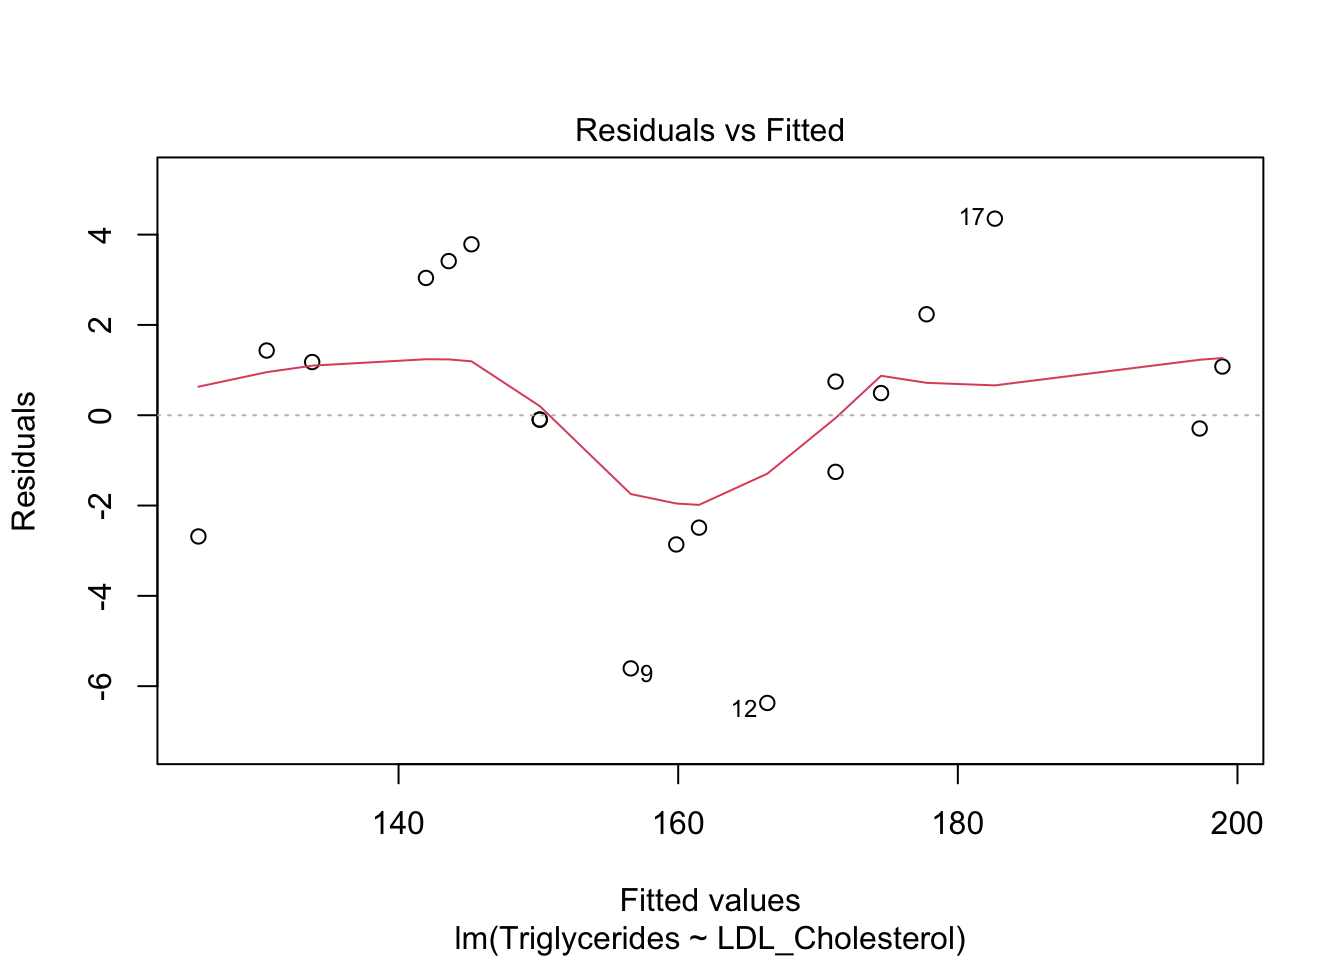
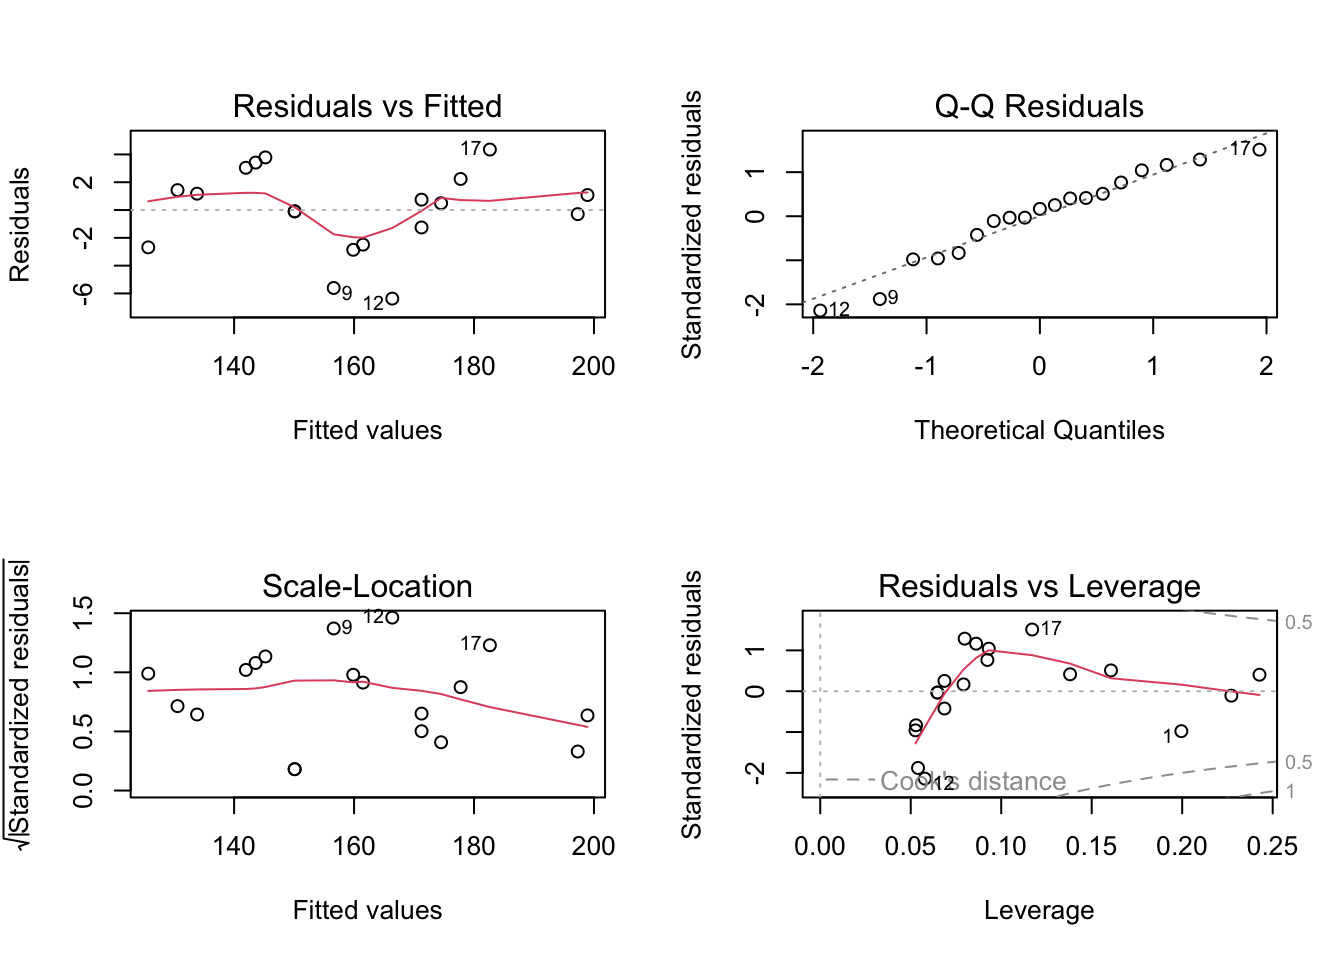
Add files via upload

diff --git a/Stats_Workshop3.html b/Stats_Workshop3.html
@@ -1343,12 +1343,12 @@ F-statistic: 849.7 on 1 and 17 DF,  p-value: 5.906e-16</code></pre>
 <dl class="code-annotation-container-hidden code-annotation-container-grid">
 <dt data-target-cell="annotated-cell-17" data-target-annotation="1">1</dt>
 <dd>
-<span data-code-cell="annotated-cell-17" data-code-lines="1" data-code-annotation="1">Send the regr_fit object to the rstandard() function which calculates the standardised residuals. Store the results as an object called st_resid</span>
+<span data-code-cell="annotated-cell-17" data-code-lines="1" data-code-annotation="1">Send the regr_fit object to the rstandard() function which calculates the standardised residuals. Store the results as an object called <code>st_resid</code></span>
 </dd>
 </dl>
 </div>
 </div>
-<p><br> Produce a histogram to view the standardised residuals visually and test with Shapiro Wilk test. <br>A histogram:<br></p>
+<p><br> Produce a histogram to view the standardised residuals visually:</p>
 <div class="cell">
 <div class="sourceCode cell-code" id="annotated-cell-18"><pre class="sourceCode r code-annotation-code code-with-copy code-annotated"><code class="sourceCode r"><span id="annotated-cell-18-1"><a href="#annotated-cell-18-1" aria-hidden="true" tabindex="-1"></a>st_resid <span class="sc">|&gt;</span></span>
 <button class="code-annotation-anchor" data-target-cell="annotated-cell-18" data-target-annotation="1">1</button><span id="annotated-cell-18-2" class="code-annotation-target"><a href="#annotated-cell-18-2" aria-hidden="true" tabindex="-1"></a>  <span class="fu">ggplot</span>(<span class="fu">aes</span>(<span class="at">x =</span> value)) <span class="sc">+</span></span>
@@ -1392,7 +1392,7 @@ Click to see the histogram
 </div>
 </div>
 </div>
-<p><br> Test the standardised residuals to see if they are normally distributed:</p>
+<p><br> Use the Shapiro Wilk test to see if the standardised residuals are normally distributed:</p>
 <div class="cell">
 <div class="sourceCode cell-code" id="cb14"><pre class="sourceCode r code-with-copy"><code class="sourceCode r"><span id="cb14-1"><a href="#cb14-1" aria-hidden="true" tabindex="-1"></a>st_resid <span class="sc">|&gt;</span></span>
 <span id="cb14-2"><a href="#cb14-2" aria-hidden="true" tabindex="-1"></a>  <span class="fu">shapiro_test</span>(value) </span></code><button title="Copy to Clipboard" class="code-copy-button"><i class="bi"></i></button></pre></div>
@@ -1433,18 +1433,30 @@ Click to see the output
 </div>
 </div>
 </div>
-<p><br><br> <code>b)</code> Diagnostic plots<br> The following will produce the diagnostic plots for the <code>regr_fit</code> regression model.</p>
+<p><br><br> <code>b)</code> Diagnostic plots<br> The following will produce 4 diagnostic plots for the <code>regr_fit</code> regression model.</p>
 <div class="cell">
-<div class="sourceCode cell-code" id="cb15"><pre class="sourceCode r code-with-copy"><code class="sourceCode r"><span id="cb15-1"><a href="#cb15-1" aria-hidden="true" tabindex="-1"></a><span class="fu">plot</span>(regr_fit)</span></code><button title="Copy to Clipboard" class="code-copy-button"><i class="bi"></i></button></pre></div>
+<div class="sourceCode cell-code" id="annotated-cell-20"><pre class="sourceCode r code-annotation-code code-with-copy code-annotated"><code class="sourceCode r"><button class="code-annotation-anchor" data-target-cell="annotated-cell-20" data-target-annotation="1">1</button><span id="annotated-cell-20-1" class="code-annotation-target"><a href="#annotated-cell-20-1" aria-hidden="true" tabindex="-1"></a><span class="fu">par</span>(<span class="at">mfrow =</span> <span class="fu">c</span>(<span class="dv">2</span>, <span class="dv">2</span>))</span>
+<button class="code-annotation-anchor" data-target-cell="annotated-cell-20" data-target-annotation="2">2</button><span id="annotated-cell-20-2" class="code-annotation-target"><a href="#annotated-cell-20-2" aria-hidden="true" tabindex="-1"></a><span class="fu">plot</span>(regr_fit)</span><div class="code-annotation-gutter-bg"></div><div class="code-annotation-gutter"></div></code><button title="Copy to Clipboard" class="code-copy-button"><i class="bi"></i></button></pre></div>
+<div class="cell-annotation">
+<dl class="code-annotation-container-hidden code-annotation-container-grid">
+<dt data-target-cell="annotated-cell-20" data-target-annotation="1">1</dt>
+<dd>
+<span data-code-cell="annotated-cell-20" data-code-lines="1" data-code-annotation="1">Arranges the 4 plots into a 2 x 2 matrix</span>
+</dd>
+<dt data-target-cell="annotated-cell-20" data-target-annotation="2">2</dt>
+<dd>
+<span data-code-cell="annotated-cell-20" data-code-lines="2" data-code-annotation="2">Produces 4 diagnostic plots from the results stored in the <code>regr_fit</code> object</span>
+</dd>
+</dl>
 </div>
-<p>Run command and then hit return by the prompt in the Console. Press return 4 times and the 4 graphs will appear in sequence.</p>
-<div class="callout callout-style-default callout-note no-icon callout-titled" title="Click to see the diagnostoc plots">
+</div>
+<div class="callout callout-style-default callout-note no-icon callout-titled" title="Click to see the diagnostic plots">
 <div class="callout-header d-flex align-content-center" data-bs-toggle="collapse" data-bs-target=".callout-24-contents" aria-controls="callout-24" aria-expanded="false" aria-label="Toggle callout">
 <div class="callout-icon-container">
 <i class="callout-icon no-icon"></i>
 </div>
 <div class="callout-title-container flex-fill">
-Click to see the diagnostoc plots
+Click to see the diagnostic plots
 </div>
 <div class="callout-btn-toggle d-inline-block border-0 py-1 ps-1 pe-0 float-end"><i class="callout-toggle"></i></div>
 </div>
@@ -1458,33 +1470,12 @@ Click to see the diagnostoc plots
 </figure>
 </div>
 </div>
-<div class="cell-output-display">
-<div>
-<figure class="figure">
-<p><img src="Stats_Workshop3_files/figure-html/regr.diagn1-2.png" class="img-fluid figure-img" width="672"></p>
-</figure>
-</div>
-</div>
-<div class="cell-output-display">
-<div>
-<figure class="figure">
-<p><img src="Stats_Workshop3_files/figure-html/regr.diagn1-3.png" class="img-fluid figure-img" width="672"></p>
-</figure>
-</div>
-</div>
-<div class="cell-output-display">
-<div>
-<figure class="figure">
-<p><img src="Stats_Workshop3_files/figure-html/regr.diagn1-4.png" class="img-fluid figure-img" width="672"></p>
-</figure>
-</div>
-</div>
 </div>
 <ul>
 <li><em>Residuals vs.&nbsp;Fitted</em> - should be even scatter of points around 0. Residuals should have no pattern in relation to predicted (fitted) values. Fitted line should be reasonably close to straight flat line (residuals all about the same = homoscedasticity). Here, some departure, so might not be quite linear.</li>
 <li><em>Normal Q-Q</em> - diag line = normal distribution of residuals. The points should be close to the diagonal line.</li>
 <li><em>Scale-Location</em> - line should be horizontal flat. Similar to Residuals vs Fitted.</li>
-<li><em>Residuals vs.&nbsp;Leverage</em> - dotted lines = Cook’s Distance. If any points are near or cross the dotted lines, they have strong influence on the model.</li>
+<li><em>Residuals vs.&nbsp;Leverage</em> - dotted lines = Cook’s Distance. If any points are near or cross the dotted lines, they have a strong influence on the model.</li>
 </ul>
 </div>
 </div>
@@ -1746,8 +1737,8 @@ Click to see the output
 </div>
 <p><br> <br> <strong>3. Explore the data</strong><br> a) Matrix of correlation coefficients, scatter plots and distributions</p>
 <div class="cell">
-<div class="sourceCode cell-code" id="cb17"><pre class="sourceCode r code-with-copy"><code class="sourceCode r"><span id="cb17-1"><a href="#cb17-1" aria-hidden="true" tabindex="-1"></a>mlr <span class="sc">|&gt;</span></span>
-<span id="cb17-2"><a href="#cb17-2" aria-hidden="true" tabindex="-1"></a>  <span class="fu">ggpairs</span>()</span></code><button title="Copy to Clipboard" class="code-copy-button"><i class="bi"></i></button></pre></div>
+<div class="sourceCode cell-code" id="cb16"><pre class="sourceCode r code-with-copy"><code class="sourceCode r"><span id="cb16-1"><a href="#cb16-1" aria-hidden="true" tabindex="-1"></a>mlr <span class="sc">|&gt;</span></span>
+<span id="cb16-2"><a href="#cb16-2" aria-hidden="true" tabindex="-1"></a>  <span class="fu">ggpairs</span>()</span></code><button title="Copy to Clipboard" class="code-copy-button"><i class="bi"></i></button></pre></div>
 </div>
 <div class="callout callout-style-default callout-note no-icon callout-titled" title="Click to see the matrix">
 <div class="callout-header d-flex align-content-center" data-bs-toggle="collapse" data-bs-target=".callout-30-contents" aria-controls="callout-30" aria-expanded="false" aria-label="Toggle callout">
@@ -1776,8 +1767,8 @@ Click to see the matrix
 </div>
 <p><br> b) Test that the dependent variable (the one to be predicted; Triglycerides) is normally distributed</p>
 <div class="cell">
-<div class="sourceCode cell-code" id="cb18"><pre class="sourceCode r code-with-copy"><code class="sourceCode r"><span id="cb18-1"><a href="#cb18-1" aria-hidden="true" tabindex="-1"></a>mlr <span class="sc">|&gt;</span></span>
-<span id="cb18-2"><a href="#cb18-2" aria-hidden="true" tabindex="-1"></a>  <span class="fu">shapiro_test</span>(Triglycerides)</span></code><button title="Copy to Clipboard" class="code-copy-button"><i class="bi"></i></button></pre></div>
+<div class="sourceCode cell-code" id="cb17"><pre class="sourceCode r code-with-copy"><code class="sourceCode r"><span id="cb17-1"><a href="#cb17-1" aria-hidden="true" tabindex="-1"></a>mlr <span class="sc">|&gt;</span></span>
+<span id="cb17-2"><a href="#cb17-2" aria-hidden="true" tabindex="-1"></a>  <span class="fu">shapiro_test</span>(Triglycerides)</span></code><button title="Copy to Clipboard" class="code-copy-button"><i class="bi"></i></button></pre></div>
 </div>
 <div class="callout callout-style-default callout-note no-icon callout-titled" title="Click to see the output">
 <div class="callout-header d-flex align-content-center" data-bs-toggle="collapse" data-bs-target=".callout-31-contents" aria-controls="callout-31" aria-expanded="false" aria-label="Toggle callout">
@@ -2000,9 +1991,22 @@ Click to see the rmse value
 </div>
 </div>
 <p><br> <br></p>
-<p><strong><code>b)</code> Diagnostic plots for the best selected model, <code>Triglycerides = -48.46+1.63(LDL)</code></strong>.<br> The results for the selected model has been stored in an object called <code>model.FINAL</code>; run the following script and then hit return at the prompt in the Console.<br> Hitting return 4 times will result in the 4 graphs being shown.</p>
+<p><strong><code>b)</code> Diagnostic plots for the best selected model, <code>Triglycerides = -48.46+1.63(LDL)</code></strong>.<br> The results for the selected model has been stored in an object called <code>model.FINAL</code>; running the following script will produce 4 diagnostic plots.</p>
 <div class="cell">
-<div class="sourceCode cell-code" id="cb22"><pre class="sourceCode r code-with-copy"><code class="sourceCode r"><span id="cb22-1"><a href="#cb22-1" aria-hidden="true" tabindex="-1"></a><span class="fu">plot</span>(model.FINAL)</span></code><button title="Copy to Clipboard" class="code-copy-button"><i class="bi"></i></button></pre></div>
+<div class="sourceCode cell-code" id="annotated-cell-33"><pre class="sourceCode r code-annotation-code code-with-copy code-annotated"><code class="sourceCode r"><button class="code-annotation-anchor" data-target-cell="annotated-cell-33" data-target-annotation="1">1</button><span id="annotated-cell-33-1" class="code-annotation-target"><a href="#annotated-cell-33-1" aria-hidden="true" tabindex="-1"></a><span class="fu">par</span>(<span class="at">mfrow =</span> <span class="fu">c</span>(<span class="dv">2</span>, <span class="dv">2</span>))</span>
+<button class="code-annotation-anchor" data-target-cell="annotated-cell-33" data-target-annotation="2">2</button><span id="annotated-cell-33-2" class="code-annotation-target"><a href="#annotated-cell-33-2" aria-hidden="true" tabindex="-1"></a><span class="fu">plot</span>(model.FINAL)</span><div class="code-annotation-gutter-bg"></div><div class="code-annotation-gutter"></div></code><button title="Copy to Clipboard" class="code-copy-button"><i class="bi"></i></button></pre></div>
+<div class="cell-annotation">
+<dl class="code-annotation-container-hidden code-annotation-container-grid">
+<dt data-target-cell="annotated-cell-33" data-target-annotation="1">1</dt>
+<dd>
+<span data-code-cell="annotated-cell-33" data-code-lines="1" data-code-annotation="1">Arranges the 4 plots into a 2x2 matrix</span>
+</dd>
+<dt data-target-cell="annotated-cell-33" data-target-annotation="2">2</dt>
+<dd>
+<span data-code-cell="annotated-cell-33" data-code-lines="2" data-code-annotation="2">Creates the four diagnostic plots from the results in the <code>model.FINAL</code> object</span>
+</dd>
+</dl>
+</div>
 </div>
 <div class="callout callout-style-default callout-note no-icon callout-titled" title="Click to see the diagnostic plots (there is a brief description of each at the bottom)">
 <div class="callout-header d-flex align-content-center" data-bs-toggle="collapse" data-bs-target=".callout-35-contents" aria-controls="callout-35" aria-expanded="false" aria-label="Toggle callout">
@@ -2024,41 +2028,20 @@ Click to see the diagnostic plots (there is a brief description of each at the b
 </figure>
 </div>
 </div>
-<div class="cell-output-display">
-<div>
-<figure class="figure">
-<p><img src="Stats_Workshop3_files/figure-html/mlr.diagn1-2.png" class="img-fluid figure-img" width="672"></p>
-</figure>
-</div>
-</div>
-<div class="cell-output-display">
-<div>
-<figure class="figure">
-<p><img src="Stats_Workshop3_files/figure-html/mlr.diagn1-3.png" class="img-fluid figure-img" width="672"></p>
-</figure>
-</div>
-</div>
-<div class="cell-output-display">
-<div>
-<figure class="figure">
-<p><img src="Stats_Workshop3_files/figure-html/mlr.diagn1-4.png" class="img-fluid figure-img" width="672"></p>
-</figure>
-</div>
-</div>
 </div>
 <ul>
-<li><em>Residuals vs.&nbsp;Fitted</em> - should be even scatter of points around 0. Residuals should have no pattern in relation to predicted (fitted) values. Fitted line should be reasonably close to straight flat line (residuals all about the same = homoscedasticity). Here, some departure, so might not be quite linear.<br> Rows 1, 12 and 17 have the 3 highest residuals.</li>
+<li><em>Residuals vs.&nbsp;Fitted</em> - should be even scatter of points around 0. Residuals should have no pattern in relation to predicted (fitted) values. Fitted line should be reasonably close to straight flat line (residuals all about the same = homoscedasticity). Here, some departure, so might not be quite linear.<br> Rows 9, 12 and 17 have the 3 highest residuals.</li>
 <li><em>Normal Q-Q</em> - diag line = normal distribution of residuals. The points should be close to the diagonal line.</li>
 <li><em>Scale-Location</em> - line should be horizontal flat. Similar to Residuals vs Fitted.</li>
-<li><em>Residuals vs.&nbsp;Leverage</em> - dotted lines = Cook’s Distance. If any points near or cross dotted lines, have strong influence.</li>
+<li><em>Residuals vs.&nbsp;Leverage</em> - dotted lines = Cook’s Distance. If any points are near or cross the dotted lines, they have a strong influence.</li>
 </ul>
 </div>
 </div>
 </div>
 <p><br> <br> <strong><code>c)</code> Examine the selected regression model for any data points that have a strong influence on the regression analysis.</strong><br></p>
 <div class="cell">
-<div class="sourceCode cell-code" id="cb23"><pre class="sourceCode r code-with-copy"><code class="sourceCode r"><span id="cb23-1"><a href="#cb23-1" aria-hidden="true" tabindex="-1"></a>inflmlr <span class="ot">&lt;-</span> model.FINAL <span class="sc">|&gt;</span> <span class="fu">influence.measures</span>()</span>
-<span id="cb23-2"><a href="#cb23-2" aria-hidden="true" tabindex="-1"></a><span class="fu">summary</span>(inflmlr)</span></code><button title="Copy to Clipboard" class="code-copy-button"><i class="bi"></i></button></pre></div>
+<div class="sourceCode cell-code" id="cb21"><pre class="sourceCode r code-with-copy"><code class="sourceCode r"><span id="cb21-1"><a href="#cb21-1" aria-hidden="true" tabindex="-1"></a>inflmlr <span class="ot">&lt;-</span> model.FINAL <span class="sc">|&gt;</span> <span class="fu">influence.measures</span>()</span>
+<span id="cb21-2"><a href="#cb21-2" aria-hidden="true" tabindex="-1"></a><span class="fu">summary</span>(inflmlr)</span></code><button title="Copy to Clipboard" class="code-copy-button"><i class="bi"></i></button></pre></div>
 </div>
 <p>This prints out possible influential predictor values.</p>
 <div class="callout callout-style-default callout-note no-icon callout-titled" title="Click to see the influence statistics (there is a brief description of each at the bottom)">
